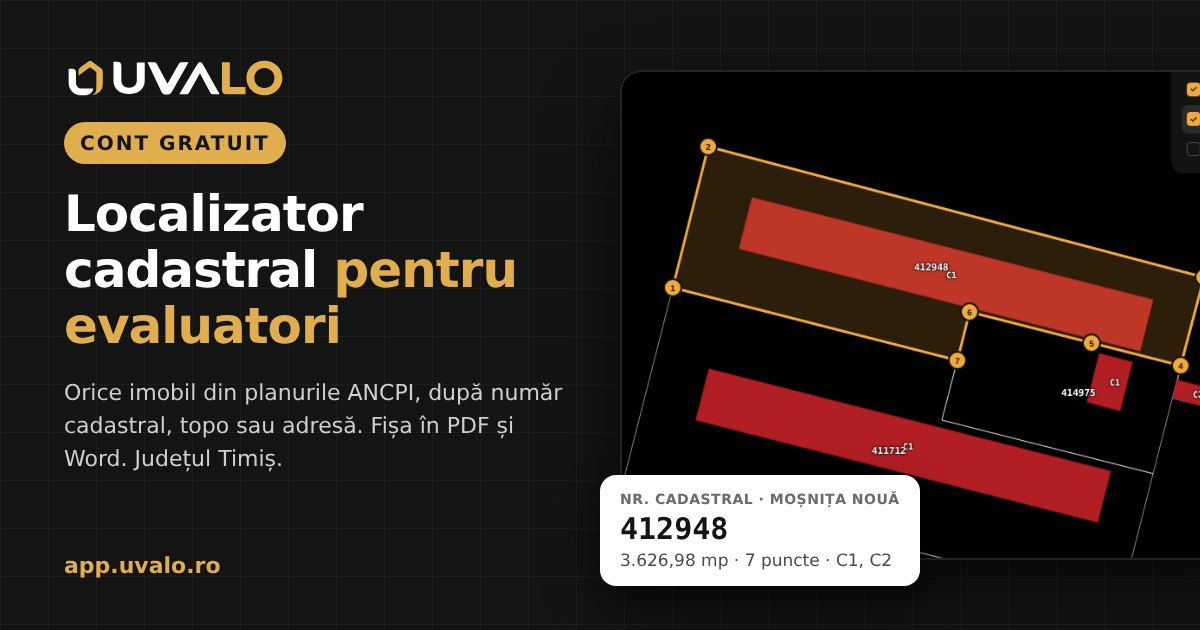
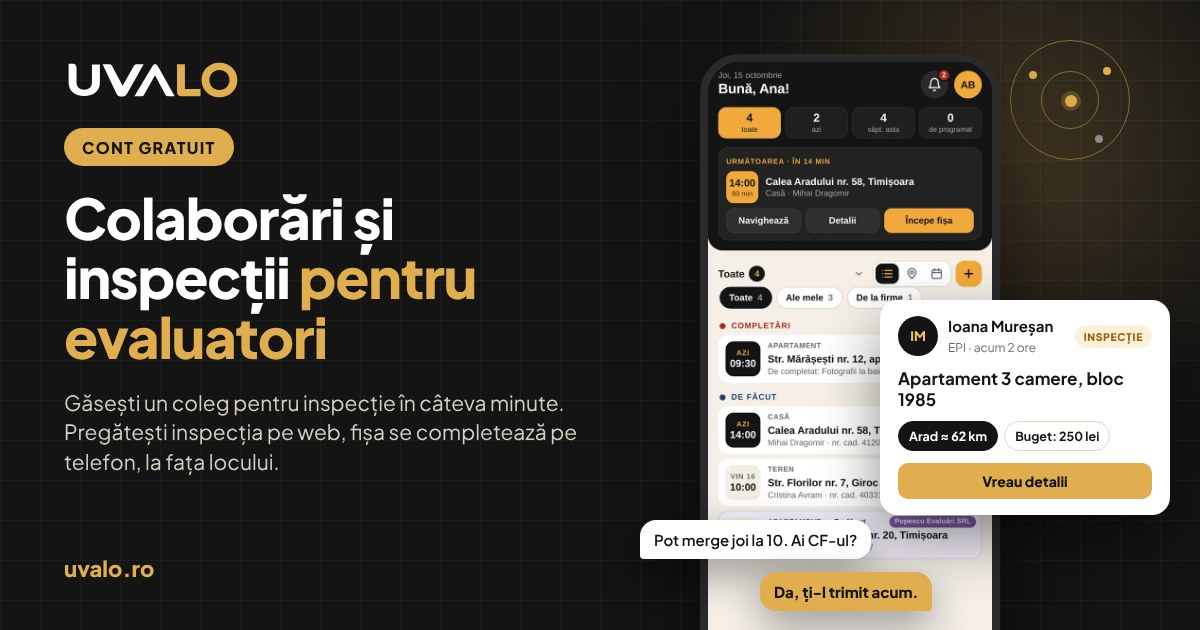
Previzualizarea linkului (WhatsApp, Facebook): imagine și texte cu Colaborări și inspecții în loc de localizator
Claude-Session: https://claude.ai/code/session_01QZwVgBKsefnDZABW8KZnd5

diff --git a/src/app/layout.tsx b/src/app/layout.tsx
@@ -3,16 +3,16 @@ import "./globals.css";
 
 // The preview of a shared link (WhatsApp, Facebook, LinkedIn…): the same image everywhere, so a link that is redirected
 // (e.g. to /mentenanta) still shows it. public/og-uvalo.jpg, 1200×630.
-const OG_IMAGE = { url: "/og-uvalo.jpg", width: 1200, height: 630, alt: "UVALO: localizator cadastral pentru evaluatori" };
+const OG_IMAGE = { url: "/og-uvalo.jpg", width: 1200, height: 630, alt: "UVALO: colaborări și inspecții pentru evaluatori" };
 export const metadata: Metadata = {
   metadataBase: new URL(process.env.APP_URL || "https://app.uvalo.ro"),
   title: "UVALO",
-  description: "Instrumente pentru evaluatori: localizator cadastral și altele.",
+  description: "Colaborări între evaluatori ANEVAR și inspecții de pe telefon, plus localizatorul cadastral, analiza amplasamentului și anexele în Word.",
   robots: { index: false, follow: false },
   openGraph: {
     type: "website", siteName: "UVALO", locale: "ro_RO",
     title: "UVALO · Platforma evaluatorilor autorizați din România",
-    description: "Localizator cadastral gratuit: orice imobil din planurile ANCPI, după număr cadastral, topo sau adresă. Fișa în PDF și Word.",
+    description: "Găsești un coleg pentru inspecție în câteva minute. Pregătești inspecția pe web, fișa se completează pe telefon, la fața locului. Cont gratuit.",
     images: [OG_IMAGE],
   },
   twitter: { card: "summary_large_image", images: [OG_IMAGE.url] },

diff --git a/src/app/solicita-cont/page.tsx b/src/app/solicita-cont/page.tsx
@@ -6,12 +6,12 @@ import { getDb } from "@/lib/db";
 import { referralByToken } from "@/lib/referrals";
 
 const OG_TITLE = "Cont gratuit UVALO pentru evaluatori";
-const OG_DESC = "Localizator cadastral pentru județul Timiș: orice imobil după număr cadastral, topo sau adresă, cu vecinii, construcțiile și coordonatele Stereo 70. Fișa în PDF și Word.";
+const OG_DESC = "Colaborări între evaluatori ANEVAR și inspecții de pe telefon: găsești un coleg pentru inspecție în câteva minute, pregătești inspecția pe web, fișa se completează pe teren. Plus localizatorul cadastral și anexele în Word.";
 export const metadata: Metadata = {
   title: "Cont gratuit pentru evaluatori | UVALO",
   description: OG_DESC,
   openGraph: { type: "website", siteName: "UVALO", locale: "ro_RO", url: "/solicita-cont", title: OG_TITLE, description: OG_DESC,
-    images: [{ url: "/og-uvalo.jpg", width: 1200, height: 630, alt: "UVALO: localizator cadastral pentru evaluatori" }] },
+    images: [{ url: "/og-uvalo.jpg", width: 1200, height: 630, alt: "UVALO: colaborări și inspecții pentru evaluatori" }] },
   twitter: { card: "summary_large_image", title: OG_TITLE, description: OG_DESC, images: ["/og-uvalo.jpg"] },
 };
 export const dynamic = "force-dynamic";
